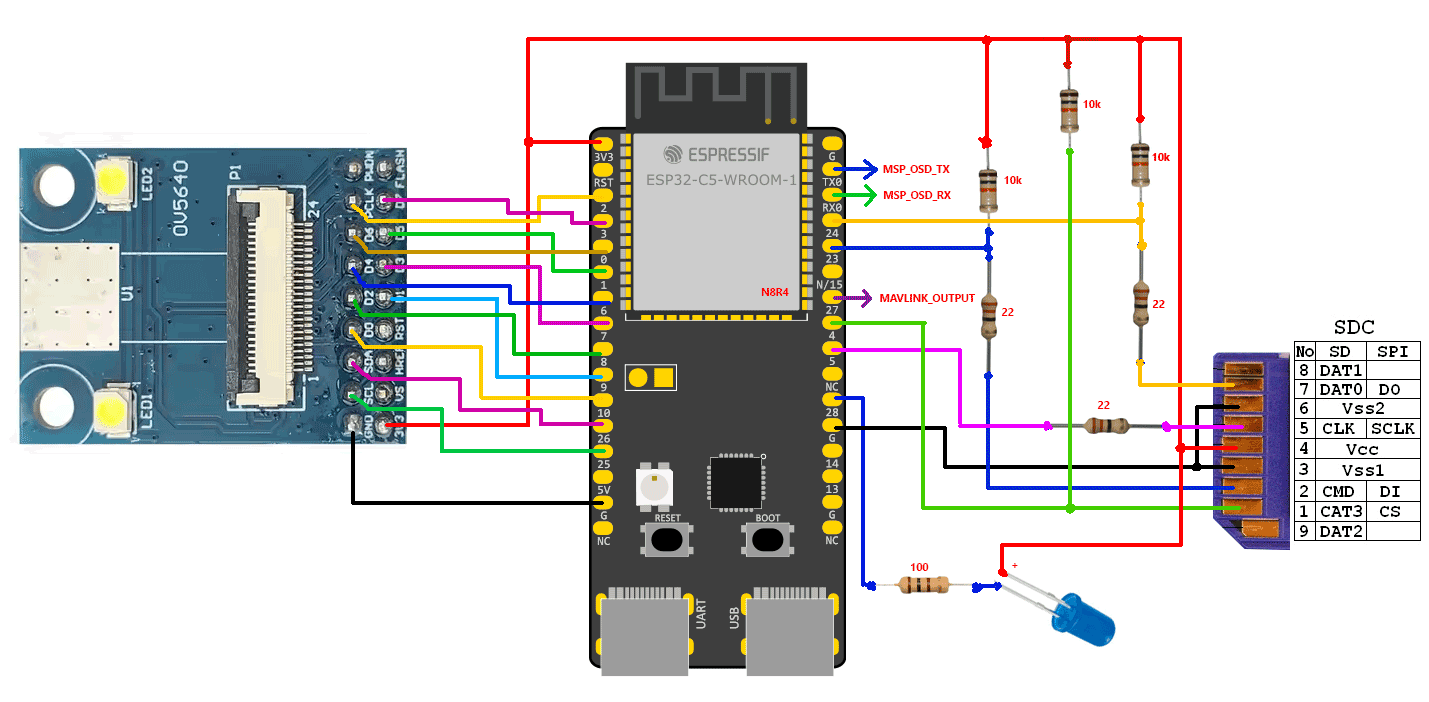
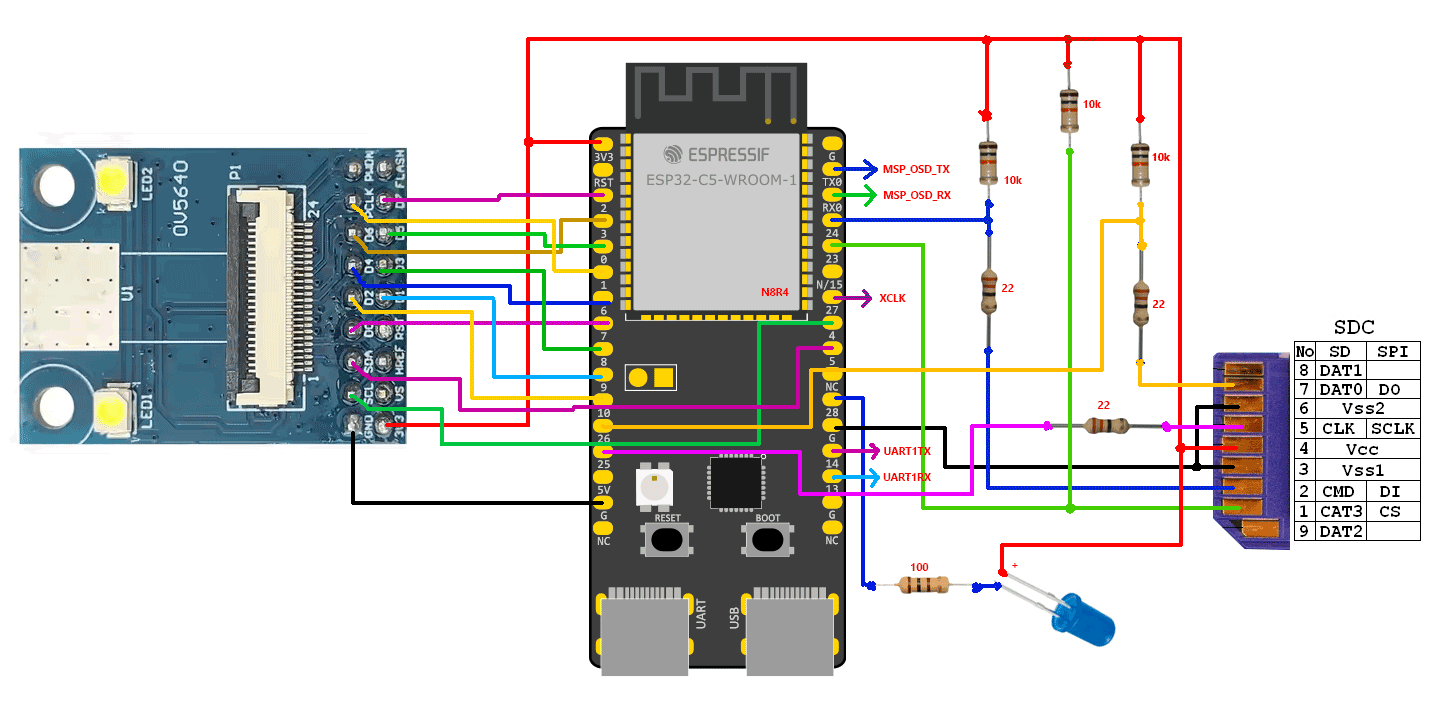
reconfigured esp32c5 for air c5 v1.2

diff --git a/components/air/main.h b/components/air/main.h
@@ -210,13 +210,16 @@
 //define to use DisplayPort OSD on UART0
 #define UART_MSP_OSD UART_NUM_0
 #define INIT_UART_0
-#define TXD0_PIN    GPIO_NUM_25
-#define RXD0_PIN    GPIO_NUM_24
+#define TXD0_PIN    GPIO_NUM_11
+#define RXD0_PIN    GPIO_NUM_12
 #define UART0_RX_BUFFER_SIZE UART_RX_BUFFER_SIZE_MSP_OSD
 #define UART0_TX_BUFFER_SIZE UART_TX_BUFFER_SIZE_MSP_OSD
 
-#ifndef USBUART_DEBUG_OUTPUT
-//define to use mavlink telemetry on UART1 
+#ifdef USBUART_DEBUG_OUTPUT
+//keep D+ D- pins assigned to usbuart
+#else
+//define to use mavlink telemetry on UART1
+//allocate D+ D- pins to UART1
 #define UART_MAVLINK UART_NUM_1
 #define INIT_UART_1
 #define TXD1_PIN    14
@@ -366,11 +369,10 @@
 #elif defined(CAMERA_MODEL_ESP32C5)
 #define PWDN_GPIO_NUM     -1
 #define RESET_GPIO_NUM    -1
+
 #ifdef ESP32C5_EARLY_PROTOTYPE
+
 #define XCLK_GPIO_NUM     -1
-#else
-#define XCLK_GPIO_NUM     27
-#endif
 #define SIOD_GPIO_NUM     26  //SDA
 #define SIOC_GPIO_NUM     25  //SLC
 
@@ -397,6 +399,26 @@
 //boot button  GPIO_NUM_28 
 //USB D+       GPIO_NUM_14
 //USB D-       GPIO_NUM_13
+
+#else
+
+#define XCLK_GPIO_NUM     27
+#define SIOD_GPIO_NUM     5  //SDA
+#define SIOC_GPIO_NUM     4  //SLC
+
+#define Y9_GPIO_NUM       2   //D7
+#define Y8_GPIO_NUM       3   //D6
+#define Y7_GPIO_NUM       0   //D5
+#define Y6_GPIO_NUM       6   //D4
+#define Y5_GPIO_NUM       8   //D3
+#define Y4_GPIO_NUM       10   //D2
+#define Y3_GPIO_NUM       9   //D1
+#define Y2_GPIO_NUM       7  //D0
+#define VSYNC_GPIO_NUM    -1
+#define HREF_GPIO_NUM     -1
+#define PCLK_GPIO_NUM     1
+
+#endif
 
 #else
 #error "Camera model not selected"